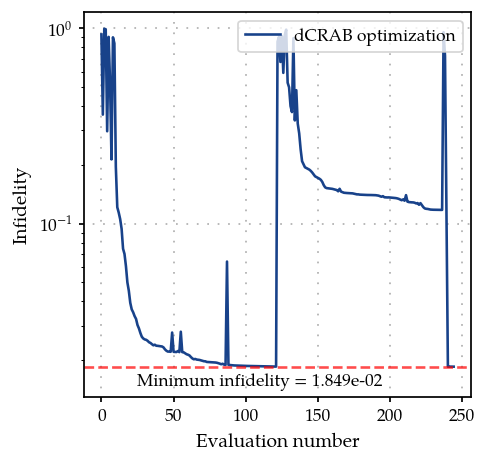
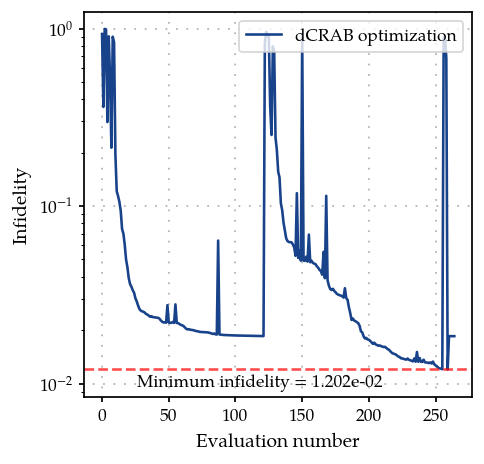
Update documentation. Fix latex errors

diff --git a/docs/notebooks/08C_Bosonic_grape_with_smooth_pulses.rst b/docs/notebooks/08C_Bosonic_grape_with_smooth_pulses.rst
@@ -401,7 +401,7 @@ can later use to plot the infidelity vs function evaluation.
 
 .. parsed-literal::
 
-    Logging directory = /tmp/tmpvyfdsfn0
+    Logging directory = /tmp/tmps582_4rw
 
 
 .. code:: ipython3
@@ -469,27 +469,27 @@ can later use to plot the infidelity vs function evaluation.
 
 .. parsed-literal::
 
-    Iteration number = 100 	  Infidelity  = 6.728e-01
+    Iteration number = 100 	  Infidelity  = 2.514e-01
 
 
 .. parsed-literal::
 
-    Iteration number = 120 	  Infidelity  = 1.730e-01
+    Iteration number = 120 	  Infidelity  = 4.825e-02
 
 
 .. parsed-literal::
 
-    Iteration number = 140 	  Infidelity  = 1.434e-01
+    Iteration number = 140 	  Infidelity  = 3.104e-02
 
 
 .. parsed-literal::
 
-    Iteration number = 160 	  Infidelity  = 1.394e-01
+    Iteration number = 160 	  Infidelity  = 1.664e-02
 
 
 .. parsed-literal::
 
-    Iteration number = 180 	  Infidelity  = 1.285e-01
+    Iteration number = 180 	  Infidelity  = 1.371e-02
 
 
 .. parsed-literal::
@@ -498,13 +498,13 @@ can later use to plot the infidelity vs function evaluation.
     
     ==== Max iteration before a super-iteration reached ====
     ==== Starting super-iteration 2 ====
-    *** Current lowest infidelity =  0.019 ***
+    *** Current lowest infidelity =  0.012 ***
     * Current no. of parameters = 74
 
 
 .. parsed-literal::
 
-    Iteration number = 200 	  Infidelity  = 7.229e-01
+    Iteration number = 200 	  Infidelity  = 6.805e-01
 
 
 .. parsed-literal::
@@ -526,7 +526,7 @@ can later use to plot the infidelity vs function evaluation.
 
 .. parsed-literal::
 
-    {'status': 2, 'value': 0.01849482025260396, 'iterations': 127, 'message': '`callback` raised `StopIteration`.'}
+    {'status': 2, 'value': 0.012016004582277917, 'iterations': 127, 'message': '`callback` raised `StopIteration`.'}
 
 
 
@@ -541,78 +541,78 @@ Lets set the optimization to the best parameters obtained during the run
 
 .. parsed-literal::
 
-    [Amplitude CRAB resonator: 4.71e+07,
-     CRAB Re coefficient 0: 0.619,
-     CRAB Re coefficient 1: -0.767,
-     CRAB Re coefficient 2: 0,
-     CRAB Re coefficient 3: 0,
+    [Amplitude CRAB resonator: 4.26e+07,
+     CRAB Re coefficient 0: 0.688,
+     CRAB Re coefficient 1: -0.776,
+     CRAB Re coefficient 2: 0.337,
+     CRAB Re coefficient 3: 0.282,
      CRAB Re coefficient 4: 0,
      CRAB Re coefficient 5: 0,
-     CRAB Re frequency 0: 1.33 Hz x 2pi,
-     CRAB Re frequency 1: 768 mHz x 2pi,
-     CRAB Re frequency 2: 1 Hz x 2pi,
-     CRAB Re frequency 3: 1 Hz x 2pi,
+     CRAB Re frequency 0: 1.45 Hz x 2pi,
+     CRAB Re frequency 1: 767 mHz x 2pi,
+     CRAB Re frequency 2: 808 mHz x 2pi,
+     CRAB Re frequency 3: 1.55 Hz x 2pi,
      CRAB Re frequency 4: 1 Hz x 2pi,
      CRAB Re frequency 5: 1 Hz x 2pi,
-     CRAB Re Phase 0: 66.3 mHz x 2pi,
-     CRAB Re Phase 1: -321 mHz x 2pi,
-     CRAB Re Phase 2: 0 Hz x 2pi,
-     CRAB Re Phase 3: 0 Hz x 2pi,
+     CRAB Re Phase 0: 74.9 mHz x 2pi,
+     CRAB Re Phase 1: -348 mHz x 2pi,
+     CRAB Re Phase 2: 436 mHz x 2pi,
+     CRAB Re Phase 3: -255 mHz x 2pi,
      CRAB Re Phase 4: 0 Hz x 2pi,
      CRAB Re Phase 5: 0 Hz x 2pi,
-     CRAB Im coefficient 0: -0.432,
-     CRAB Im coefficient 1: 0.933,
-     CRAB Im coefficient 2: 0,
-     CRAB Im coefficient 3: 0,
+     CRAB Im coefficient 0: -0.394,
+     CRAB Im coefficient 1: 0.967,
+     CRAB Im coefficient 2: 0.126,
+     CRAB Im coefficient 3: -0.000265,
      CRAB Im coefficient 4: 0,
      CRAB Im coefficient 5: 0,
-     CRAB Im frequency 0: 1.7 Hz x 2pi,
-     CRAB Im frequency 1: 1.88 Hz x 2pi,
-     CRAB Im frequency 2: 1 Hz x 2pi,
-     CRAB Im frequency 3: 1 Hz x 2pi,
+     CRAB Im frequency 0: 1.65 Hz x 2pi,
+     CRAB Im frequency 1: 1.86 Hz x 2pi,
+     CRAB Im frequency 2: 323 mHz x 2pi,
+     CRAB Im frequency 3: 1.14 Hz x 2pi,
      CRAB Im frequency 4: 1 Hz x 2pi,
      CRAB Im frequency 5: 1 Hz x 2pi,
-     CRAB Im Phase 0: -94.8 mHz x 2pi,
-     CRAB Im Phase 1: 500 mHz x 2pi,
-     CRAB Im phase 2: 0 Hz x 2pi,
-     CRAB Im phase 3: 0 Hz x 2pi,
+     CRAB Im Phase 0: -28.7 mHz x 2pi,
+     CRAB Im Phase 1: 480 mHz x 2pi,
+     CRAB Im phase 2: -304 mHz x 2pi,
+     CRAB Im phase 3: -380 mHz x 2pi,
      CRAB Im phase 4: 0 Hz x 2pi,
      CRAB Im phase 5: 0 Hz x 2pi,
-     Amplitude CRAB qubit: -4.29e+07,
-     CRAB Re coefficient 0: 0.811,
-     CRAB Re coefficient 1: -0.817,
-     CRAB Re coefficient 2: 0,
-     CRAB Re coefficient 3: 0,
+     Amplitude CRAB qubit: -4.61e+07,
+     CRAB Re coefficient 0: 0.784,
+     CRAB Re coefficient 1: -0.843,
+     CRAB Re coefficient 2: -0.0338,
+     CRAB Re coefficient 3: 0.343,
      CRAB Re coefficient 4: 0,
      CRAB Re coefficient 5: 0,
-     CRAB Re frequency 0: 1.67 Hz x 2pi,
-     CRAB Re frequency 1: 989 mHz x 2pi,
-     CRAB Re frequency 2: 1 Hz x 2pi,
-     CRAB Re frequency 3: 1 Hz x 2pi,
+     CRAB Re frequency 0: 1.7 Hz x 2pi,
+     CRAB Re frequency 1: 1.02 Hz x 2pi,
+     CRAB Re frequency 2: 1.36 Hz x 2pi,
+     CRAB Re frequency 3: 859 mHz x 2pi,
      CRAB Re frequency 4: 1 Hz x 2pi,
      CRAB Re frequency 5: 1 Hz x 2pi,
-     CRAB Re Phase 0: 385 mHz x 2pi,
-     CRAB Re Phase 1: 474 mHz x 2pi,
-     CRAB Re Phase 2: 0 Hz x 2pi,
-     CRAB Re Phase 3: 0 Hz x 2pi,
+     CRAB Re Phase 0: 418 mHz x 2pi,
+     CRAB Re Phase 1: 491 mHz x 2pi,
+     CRAB Re Phase 2: -326 mHz x 2pi,
+     CRAB Re Phase 3: -182 mHz x 2pi,
      CRAB Re Phase 4: 0 Hz x 2pi,
      CRAB Re Phase 5: 0 Hz x 2pi,
-     CRAB Im coefficient 0: 0.548,
-     CRAB Im coefficient 1: -0.379,
-     CRAB Im coefficient 2: 0,
-     CRAB Im coefficient 3: 0,
+     CRAB Im coefficient 0: 0.56,
+     CRAB Im coefficient 1: -0.373,
+     CRAB Im coefficient 2: 0.0206,
+     CRAB Im coefficient 3: 0.00603,
      CRAB Im coefficient 4: 0,
      CRAB Im coefficient 5: 0,
-     CRAB Im frequency 0: 1.86 Hz x 2pi,
-     CRAB Im frequency 1: 688 mHz x 2pi,
-     CRAB Im frequency 2: 1 Hz x 2pi,
-     CRAB Im frequency 3: 1 Hz x 2pi,
+     CRAB Im frequency 0: 1.89 Hz x 2pi,
+     CRAB Im frequency 1: 645 mHz x 2pi,
+     CRAB Im frequency 2: 981 mHz x 2pi,
+     CRAB Im frequency 3: 1.43 Hz x 2pi,
      CRAB Im frequency 4: 1 Hz x 2pi,
      CRAB Im frequency 5: 1 Hz x 2pi,
      CRAB Im Phase 0: 158 mHz x 2pi,
-     CRAB Im Phase 1: -13.6 mHz x 2pi,
-     CRAB Im phase 2: 0 Hz x 2pi,
-     CRAB Im phase 3: 0 Hz x 2pi,
+     CRAB Im Phase 1: -60.3 mHz x 2pi,
+     CRAB Im phase 2: -296 mHz x 2pi,
+     CRAB Im phase 3: 19.6 mHz x 2pi,
      CRAB Im phase 4: 0 Hz x 2pi,
      CRAB Im phase 5: 0 Hz x 2pi]
 
@@ -656,8 +656,8 @@ The new fidelities are
 
 .. parsed-literal::
 
-    Fidelity at N_T=3 = 0.9672101819647037
-    Fidelity at N_T=4 = 0.9467437815551755
+    Fidelity at N_T=3 = 0.9755915686011631
+    Fidelity at N_T=4 = 0.9510002321911987
 
 
 For this small truncation number the dynamics and fidelities do not
@@ -902,12 +902,12 @@ Redefine the optmap and the optmizer and rerun the optimization
 
 .. parsed-literal::
 
-    Logging directory = /tmp/tmp5_ycbr0d
+    Logging directory = /tmp/tmp21kfkspm
 
 
 .. parsed-literal::
 
-    Implicitly cleaning up <TemporaryDirectory '/tmp/tmpvyfdsfn0'>
+    Implicitly cleaning up <TemporaryDirectory '/tmp/tmps582_4rw'>
 
 
 .. code:: ipython3

diff --git a/docs/notebooks/02D_GOAToverGRAPE_TLS.rst b/docs/notebooks/02D_GOAToverGRAPE_TLS.rst
@@ -11,8 +11,8 @@ This is performed by using chain rule -
 .. math:: \frac{\partial J}{\partial p} = \sum_k \frac{\partial J}{\partial c_k} \frac{\partial c_k}{\partial p}
 
 where :math:`c_k = c(t_k)` the ‘pixelated’ control pulse,
-:math:`\vec{p}` are the analytical parameters of the control pulse $c(t)
-:raw-latex:`\equiv `c(:raw-latex:`\vec{p}`, t) $, and
+:math:`\vec{p}` are the analytical parameters of the control pulse
+:math:`c(t) \equiv c(\vec{p}, t)`, and
 :math:`\frac{\partial J}{\partial c_k}` are the gradients from GRAPE.
 
 1. Generate a PWC pulse shape
